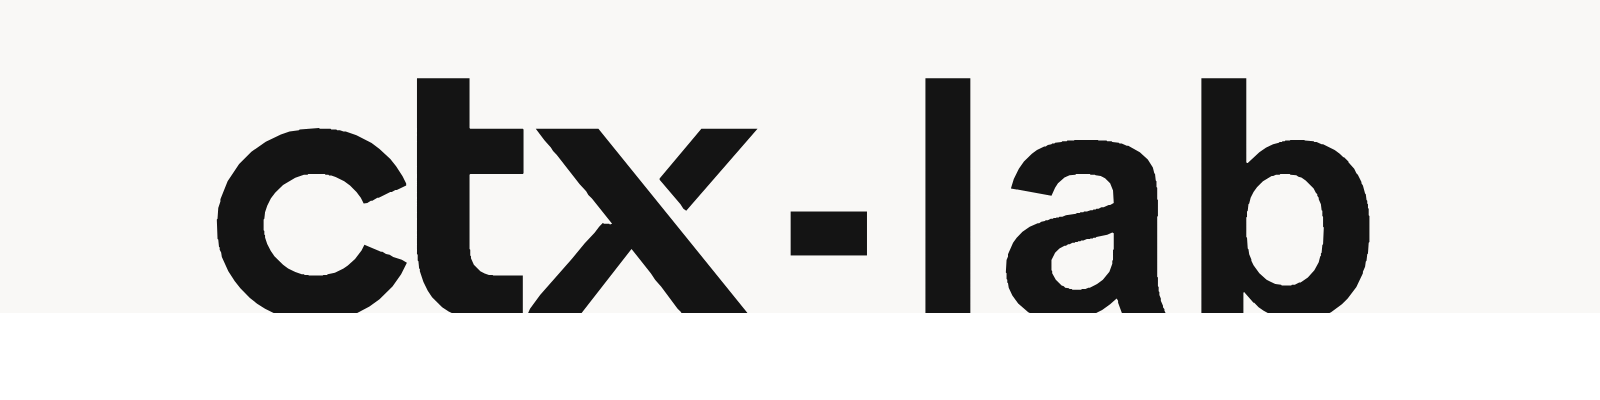
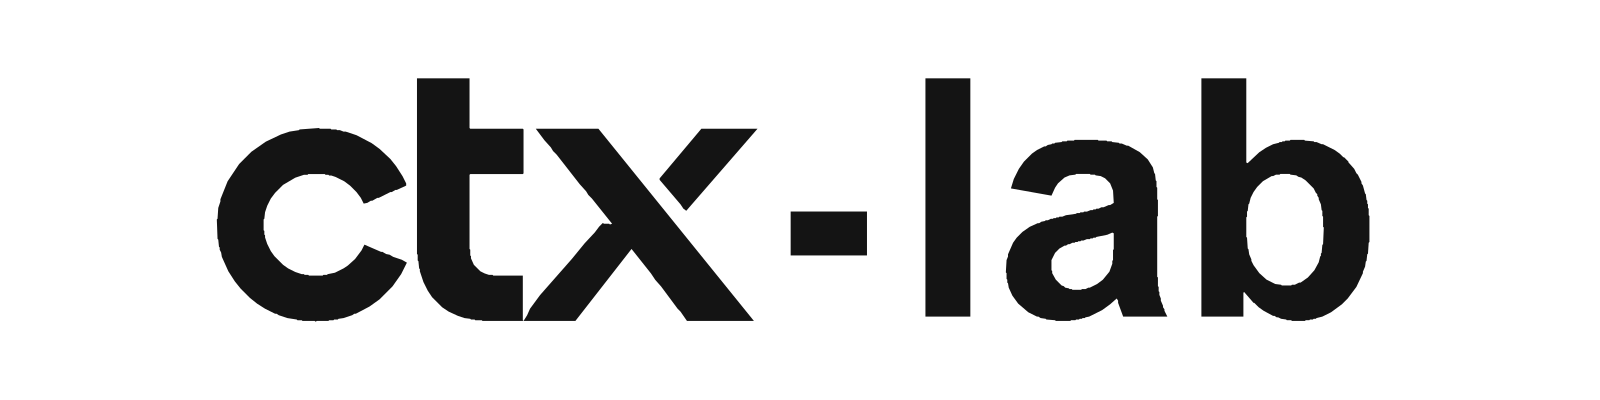
Fix clipped hero and support light and dark GitHub themes

diff --git a/profile/README.md b/profile/README.md
@@ -1,4 +1,8 @@
-![Context Lab](https://raw.githubusercontent.com/ctx-lab/.github/867df51/assets/hero.png)
+<picture>
+  <source media="(prefers-color-scheme: dark)" srcset="https://raw.githubusercontent.com/ctx-lab/.github/main/assets/hero-dark.png?v=2">
+  <source media="(prefers-color-scheme: light)" srcset="https://raw.githubusercontent.com/ctx-lab/.github/main/assets/hero-light.png?v=2">
+  <img alt="Context Lab" src="https://raw.githubusercontent.com/ctx-lab/.github/main/assets/hero-light.png?v=2" width="1600" height="400">
+</picture>
 
 Grounded engineering for information systems.
 
